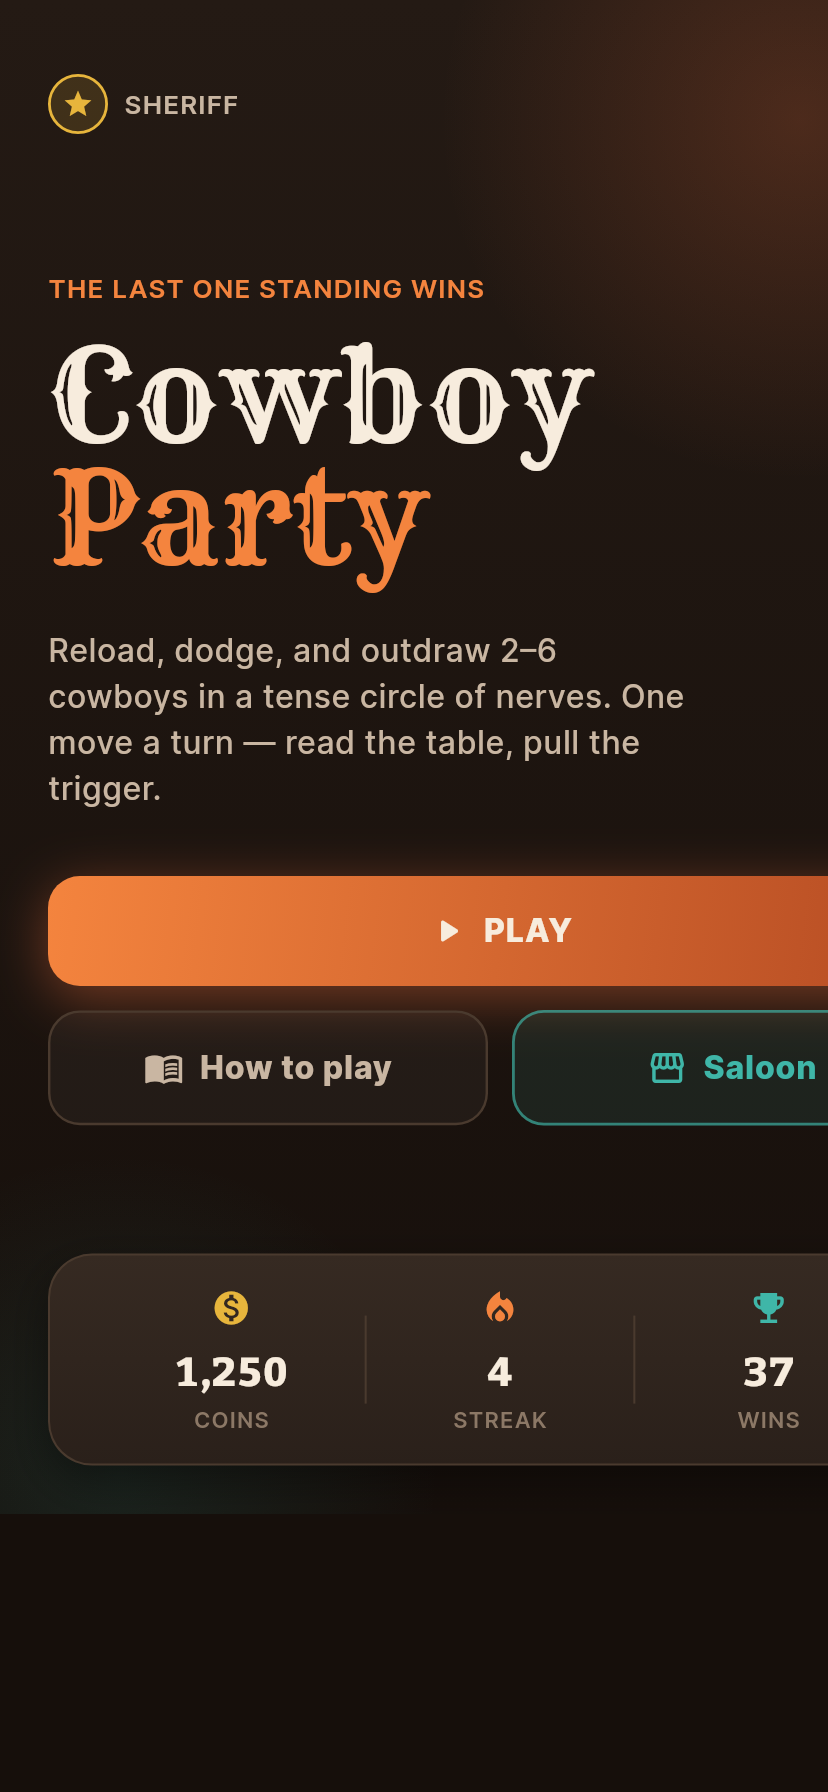
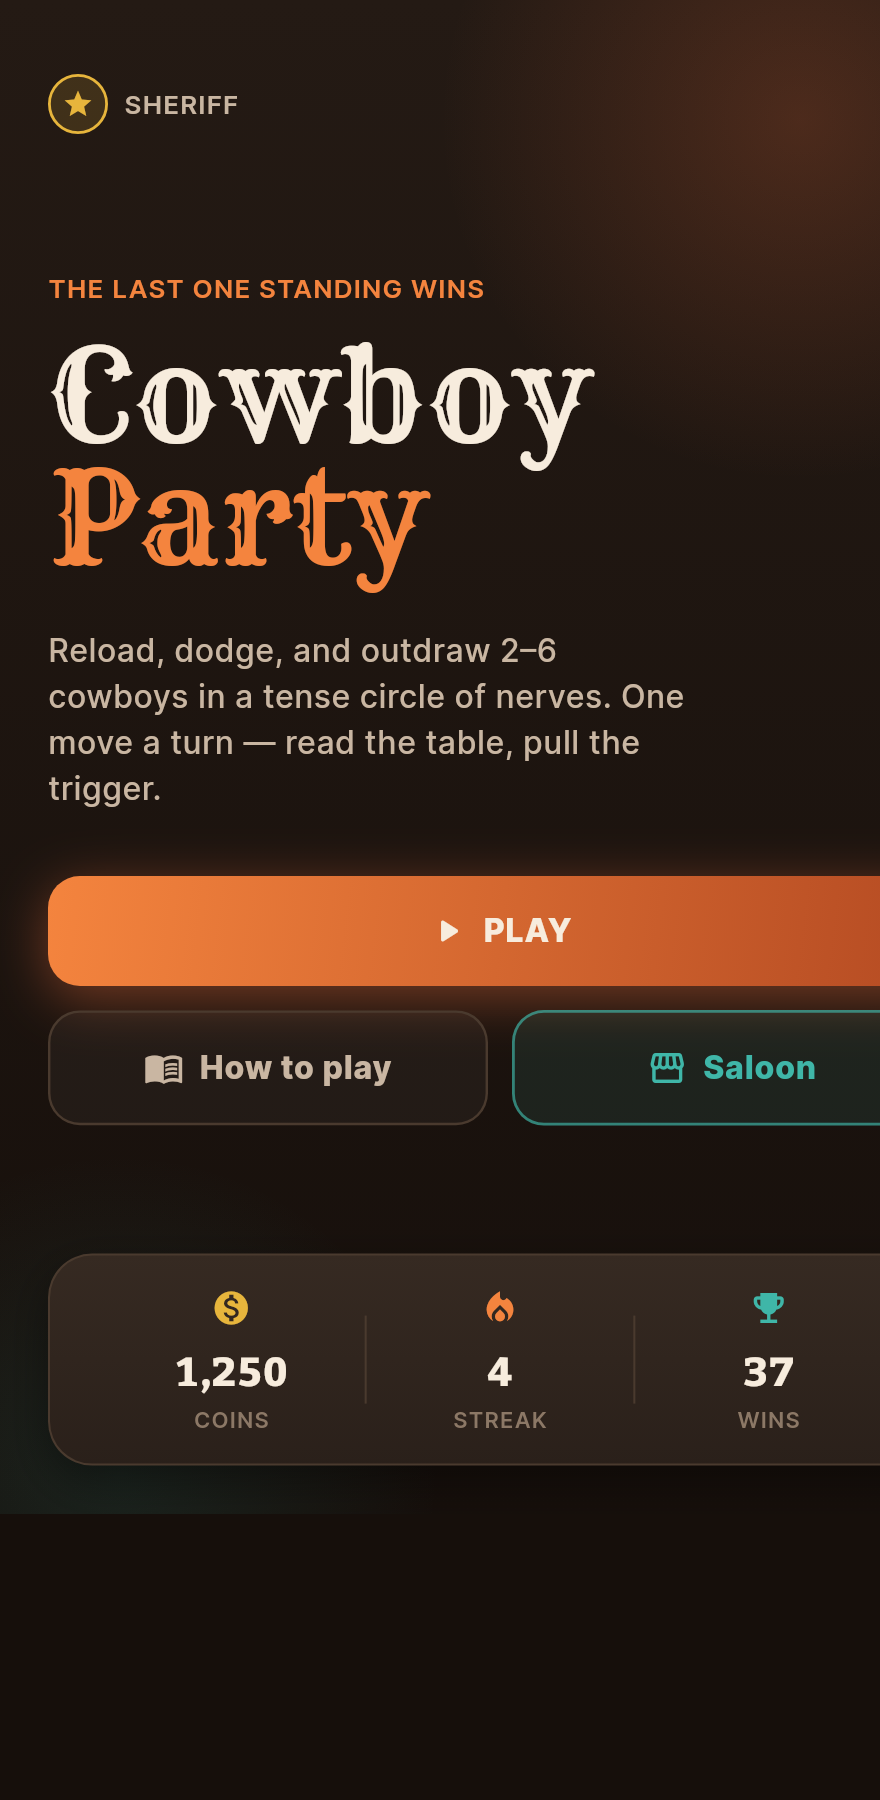
Cycle 7: premium shared page transition
- cowboyRoute(): fade + subtle slide-up (lib/design/transitions.dart)
- All home navigation uses it instead of default MaterialPageRoute
- analyze 0, 6 tests pass, home regression-checked (shots/home_phone.png)

diff --git a/lib/design/transitions.dart b/lib/design/transitions.dart
@@ -1,0 +1,27 @@
+import 'package:flutter/material.dart';
+
+import 'tokens.dart';
+
+/// Shared page transition for the Desert Dusk app: a soft fade combined with a
+/// small upward slide, so navigation feels intentional and premium rather than
+/// using the default platform push. Use everywhere instead of MaterialPageRoute.
+Route<T> cowboyRoute<T>(Widget page) {
+  return PageRouteBuilder<T>(
+    transitionDuration: CMotion.base,
+    reverseTransitionDuration: CMotion.fast,
+    pageBuilder: (context, animation, secondary) => page,
+    transitionsBuilder: (context, animation, secondary, child) {
+      final curved = CurvedAnimation(parent: animation, curve: CMotion.curve);
+      return FadeTransition(
+        opacity: curved,
+        child: SlideTransition(
+          position: Tween<Offset>(
+            begin: const Offset(0, 0.035),
+            end: Offset.zero,
+          ).animate(curved),
+          child: child,
+        ),
+      );
+    },
+  );
+}

diff --git a/lib/screens/home_screen.dart b/lib/screens/home_screen.dart
@@ -3,6 +3,7 @@ import 'package:flutter/material.dart';
 import '../design/components.dart';
 import '../design/theme.dart';
 import '../design/tokens.dart';
+import '../design/transitions.dart';
 import 'game_table_screen.dart';
 import 'how_to_play_screen.dart';
 import 'ranking_screen.dart';
@@ -121,9 +122,7 @@ class _PrimaryCta extends StatelessWidget {
       label: 'PLAY',
       icon: Icons.play_arrow_rounded,
       expand: true,
-      onPressed: () => Navigator.of(context).push(
-        MaterialPageRoute(builder: (_) => const GameTableScreen()),
-      ),
+      onPressed: () => Navigator.of(context).push(cowboyRoute(const GameTableScreen())),
     );
   }
 }
@@ -139,9 +138,7 @@ class _SecondaryRow extends StatelessWidget {
             kind: CButtonKind.ghost,
             icon: Icons.menu_book_outlined,
             expand: true,
-            onPressed: () => Navigator.of(context).push(
-              MaterialPageRoute(builder: (_) => const HowToPlayScreen()),
-            ),
+            onPressed: () => Navigator.of(context).push(cowboyRoute(const HowToPlayScreen())),
           ),
         ),
         const SizedBox(width: CSpace.sm),
@@ -151,9 +148,7 @@ class _SecondaryRow extends StatelessWidget {
             kind: CButtonKind.secondary,
             icon: Icons.storefront_outlined,
             expand: true,
-            onPressed: () => Navigator.of(context).push(
-              MaterialPageRoute(builder: (_) => const SaloonScreen()),
-            ),
+            onPressed: () => Navigator.of(context).push(cowboyRoute(const SaloonScreen())),
           ),
         ),
       ],
@@ -166,9 +161,7 @@ class _CoinStrip extends StatelessWidget {
   Widget build(BuildContext context) {
     return CowboyCard(
       padding: const EdgeInsets.symmetric(horizontal: CSpace.lg, vertical: CSpace.md),
-      onTap: () => Navigator.of(context).push(
-        MaterialPageRoute(builder: (_) => const RankingScreen()),
-      ),
+      onTap: () => Navigator.of(context).push(cowboyRoute(const RankingScreen())),
       child: Row(
         children: const [
           _Stat(icon: Icons.monetization_on, label: 'Coins', value: '1,250', color: CColors.gold),

diff --git a/ARCHITECTURE.md b/ARCHITECTURE.md
@@ -2,7 +2,7 @@
 
 > Figma 주도(예정) 리디자인 프로토타입. **cowboy_party 본 앱과 완전 독립**(별도 폴더/repo/도메인).
 > 목표: 카우보이 파티 게임을 처음부터 예쁜 디자인 시스템으로 다시 그린다.
-> 최종 갱신: 2026-06-16 (Cycle 6 — How to play 가이드 · 전 화면 네비 연결)
+> 최종 갱신: 2026-06-16 (Cycle 7 — 공통 페이지 전환 애니메이션)
 
 ## 1. 디자인 시스템 — "Desert Dusk"
 서부(spaghetti-western) + 모던. 가죽/모래/석양 오렌지 + 남서부 터콰이즈 액센트.
@@ -16,6 +16,7 @@
   - `buildCowboyTheme()` → 다크 M3 ThemeData(scheme, scaffold bg, Inter textTheme).
 - **컴포넌트**: `lib/design/components.dart`
   - `DuskBackground` — 전 화면 공통 석양 그라데이션 + 라디얼 글로우 2개.
+  - 전환: `lib/design/transitions.dart` `cowboyRoute<T>()` — 페이드 + 살짝 위로 슬라이드(MaterialPageRoute 대체, 홈 네비 전부 사용).
   - `CowboyButton` — primary(그라데이션+글로우)/secondary(터콰이즈 아웃라인)/ghost. 누름 애니메이션(scale 0.97).
   - `CowboyCard` — 가죽 패널(그라데이션+헤어라인 보더+그림자). 옵션 좌측 accent 스트라이프(IntrinsicHeight로 풀하이트).
   - `SectionLabel` — 작은 올캡스 eyebrow.